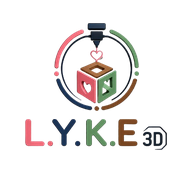
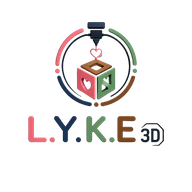
Corrige o corte do L.Y.K.E 3D no ícone do PWA
O wordmark ficava em y=.70 com .74 de largura, fora do círculo que o
launcher usa para arredondar o ícone: o "L." e o selo "3D", que ficam
nas pontas, saíam cortados na tela inicial.

As posições agora saem do gerador em vez da mão. O lockup é empilhado
em espaço unitário e encaixe() acha a maior escala e o centro vertical
que mantêm os quatro cantos de cada peça dentro do círculo seguro — o
que decide não é a largura da peça e sim o canto dela, porque quanto
mais longe do centro vertical, menos largura o círculo deixa.

Ícone comum e apple-touch usam círculo de 88%; o maskable segue nos 80%
da spec, só com o emblema, que é o que continua legível depois do corte
do Android. O tamanho da arte fica praticamente o mesmo de antes — o que
estava errado era a altura do wordmark, não a escala.

Sobe VERSION do service worker para os ícones novos chegarem em quem já
tem o app instalado.

Changed region(s): [[0.125, 0.0938, 0.875, 0.7812]]

diff --git a/sw.js b/sw.js
@@ -10,7 +10,7 @@
    o Firebase (que usa fetch de longa duração e streaming) precisam ir direto
    para a rede, sem interferência. */
 
-var VERSION = 'calc3d-v4';
+var VERSION = 'calc3d-v5';
 var SHELL = ['./', './index.html', './manifest.webmanifest',
              './icone-192.png', './icone-512.png', './icone-512-mask.png', './icone-180.png',
              './lyke-marca.png', './lyke-logo.png'];

diff --git a/tools/gerar-marca.py b/tools/gerar-marca.py
@@ -20,6 +20,11 @@ de a topbar e a assinatura dos Ajustes usarem uma placa branca no app.
 O corte em três bandas (emblema, wordmark e assinatura) é feito pelas faixas de
 pixels transparentes que separam as partes; cada banda vai para um lugar
 diferente, porque a assinatura em corpo 8 não sobrevive a 192px.
+
+Nada é posicionado à mão: o lockup é empilhado em espaço unitário e o encaixe()
+acha a maior escala que ainda mantém os quatro cantos de cada peça dentro do
+círculo seguro. É esse círculo que o launcher usa quando recorta o ícone — sem
+ele o "L." e o selo "3D", que ficam nas pontas do wordmark, saem cortados.
 """
 
 import os
@@ -76,6 +81,64 @@ def bandas(im):
     return out
 
 
+# ------------------------------------------------------------ zona segura
+
+SEGURO_ANY = .44    # círculo de 88% — o quanto o launcher come, com respiro
+SEGURO_MASK = .40   # 80%, o que a spec maskable garante
+
+# lockup do ícone: largura de cada peça em espaço unitário (wordmark = 1) e o
+# respiro entre elas, em altura de wordmark
+LOCKUP = [('emblema', .60), ('word', 1.)]
+RESPIRO = .30
+
+
+def pilha(partes, lockup, respiro):
+    """empilha as peças centradas e devolve (larg, alt, desloc_y) de cada uma
+
+    tudo em espaço unitário, com a origem no centro do conjunto."""
+    caixas = []
+    for nome, larg in lockup:
+        arte = partes[nome]
+        caixas.append([nome, larg, larg * arte.height / arte.width])
+    gap = respiro * caixas[-1][2]
+    alt = sum(c[2] for c in caixas) + gap * (len(caixas) - 1)
+
+    saida, y = [], -alt / 2
+    for nome, w, h in caixas:
+        saida.append((nome, w, h, y + h / 2))
+        y += h + gap
+    return saida
+
+
+def encaixe(itens, raio, passos=400):
+    """maior escala (e centro vertical) que mantém a pilha dentro do círculo
+
+    o corte do launcher é redondo, então o que decide não é a largura da peça e
+    sim o canto dela: quanto mais longe do centro vertical, menos largura sobra."""
+    def cabe(s, dy):
+        for _, w, h, cy in itens:
+            a, b = w * s / 2, h * s / 2
+            if a * a + (abs(cy * s + dy) + b) ** 2 > raio * raio:
+                return False
+        return True
+
+    melhor = (0., 0.)
+    for i in range(-passos, passos + 1):
+        dy = raio * i / passos
+        lo, hi = 0., 4.
+        for _ in range(50):
+            s = (lo + hi) / 2
+            if cabe(s, dy):
+                lo = s
+            else:
+                hi = s
+        if lo > melhor[0]:
+            melhor = (lo, dy)
+    if not melhor[0]:
+        raise SystemExit('nada cabe no círculo de raio %.2f' % raio)
+    return melhor
+
+
 # ---------------------------------------------------------------- montagem
 
 def encaixa(base, arte, cx, cy, larg, alt):
@@ -97,11 +160,14 @@ def placa(tam, raio):
     return im
 
 
-def icone(partes, tam, raio, pecas):
-    """pecas: (banda, cx, cy, larg, alt) em fração do lado, para escalar junto"""
+def icone(partes, tam, raio, lockup, seguro, respiro=RESPIRO):
+    """desenha o lockup na maior escala que ainda cabe no círculo seguro"""
+    itens = pilha(partes, lockup, respiro)
+    s, dy = encaixe(itens, seguro)
     im = placa(tam, round(raio * tam))
-    for banda, cx, cy, w, h in pecas:
-        encaixa(im, partes[banda], cx * tam, cy * tam, w * tam, h * tam)
+    for nome, w, h, cy in itens:
+        encaixa(im, partes[nome], .5 * tam, (.5 + cy * s + dy) * tam,
+                w * s * tam, h * s * tam)
     return im
 
 
@@ -129,16 +195,14 @@ def main():
     salva(quad, 'lyke-marca.png')
 
     # ícone comum: emblema em cima, wordmark embaixo — ainda legível a 192px
-    comum = [('emblema', .5, .35, .46, .46), ('word', .5, .70, .74, .17)]
     for tam in (192, 512):
-        salva(icone(partes, tam, .22, comum), 'icone-%d.png' % tam)
+        salva(icone(partes, tam, .22, LOCKUP, SEGURO_ANY), 'icone-%d.png' % tam)
 
     # apple-touch-icon: sem cantos próprios, o iOS aplica a máscara dele
-    salva(icone(partes, 180, 0, [('emblema', .5, .37, .46, .46),
-                                 ('word', .5, .71, .70, .16)]), 'icone-180.png')
+    salva(icone(partes, 180, 0, LOCKUP, SEGURO_ANY), 'icone-180.png')
 
-    # maskable: tudo dentro do círculo seguro de 80%, só o emblema
-    salva(icone(partes, 512, 0, [('emblema', .5, .5, .56, .56)]), 'icone-512-mask.png')
+    # maskable: o Android corta até 80%, aí só o emblema sobrevive legível
+    salva(icone(partes, 512, 0, [('emblema', 1.)], SEGURO_MASK), 'icone-512-mask.png')
 
 
 if __name__ == '__main__':
